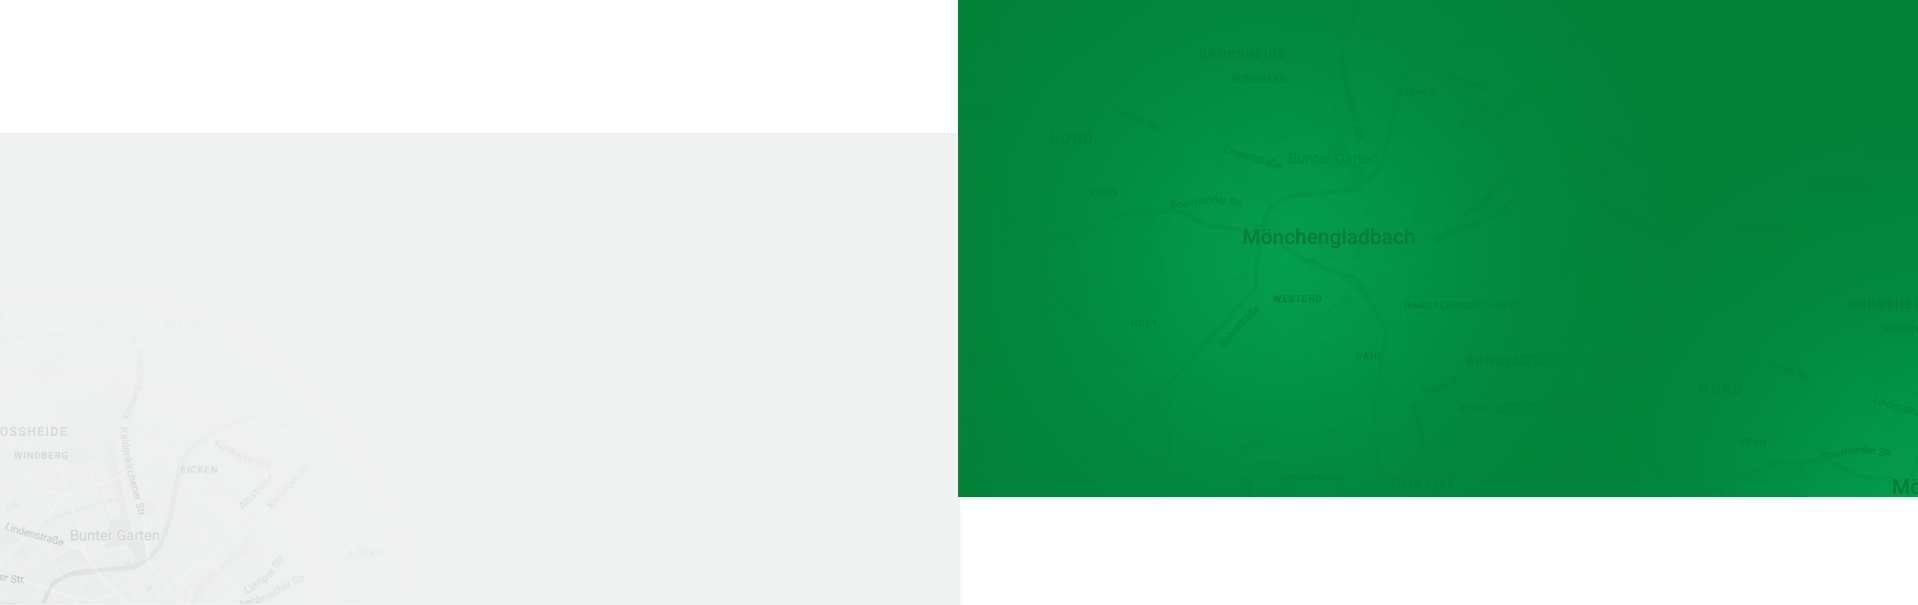
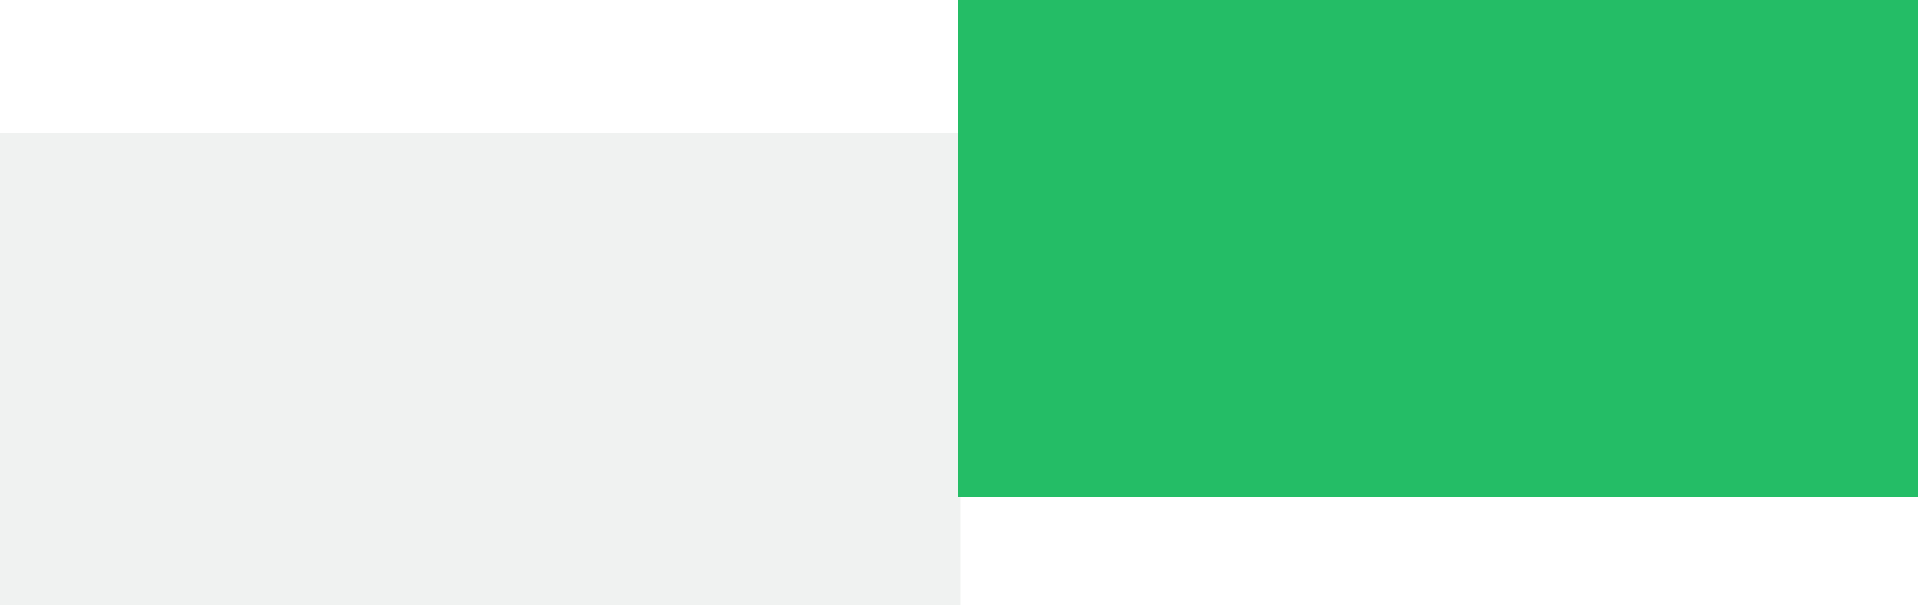
changed bgs

diff --git a/client/src/pages/Home/Home.css b/client/src/pages/Home/Home.css
@@ -311,7 +311,7 @@
   justify-content: center;
   gap: 2rem;
   color: #1a1b1a;
-  
+
   font-size: 26px;
   font-style: normal;
   font-weight: 700;
@@ -356,7 +356,7 @@
   justify-content: center;
   gap: 1rem;
   color: #fff;
-  
+
   font-size: 20px;
   font-style: normal;
   font-weight: 700;
@@ -369,10 +369,10 @@
 
 ._cards_container {
   /* height: 100%; */
-  /* background-image: url(../../assets/Mask_group2.png); */
-  /* background-size: cover;
+  background-image: url(../../assets/Mask_group2.png);
+  background-size: cover;
   background-position: top;
-  background-repeat: no-repeat; */
+  background-repeat: no-repeat;
   background-color: #fff;
   position: relative;
   display: flex;
@@ -384,6 +384,7 @@
     font-size: 35px;
     font-weight: 700;
     margin-top: 59px;
+    color: #fff;
   }
 }
 
@@ -562,7 +563,7 @@
 .guy_box p,
 .girl_box p {
   color: #252f44;
-  
+
   font-size: clamp(10px, 1vw, 13px);
   font-style: normal;
   font-weight: 700;
@@ -614,7 +615,7 @@
 
 .search_title h1 {
   color: #fff;
-  
+
 
   text-wrap: nowrap;
   text-overflow: ellipsis;
@@ -644,7 +645,7 @@
 
 .search_title>h1>span {
   color: #dec25f;
-  
+
   /* font-size: clamp(1.5rem, 4vw, 5.625rem); */
   font-style: normal;
   font-weight: 700;
@@ -659,7 +660,7 @@
 
 .search_description p {
   color: rgba(255, 255, 255, 0.45);
-  
+
 
   @media (min-width: 1200px) {
     font-size: clamp(13px, 1vw, 2rem);
@@ -730,7 +731,7 @@
 
 ._box p {
   color: #252f44;
-  
+
   font-size: clamp(1rem, 0.9vw, 2rem);
   font-style: normal;
   font-weight: 700;
@@ -852,7 +853,7 @@
 ._testimonial_container p {
   color: #1a1b1a;
   text-align: center;
-  
+
 
   /* font-size: clamp(1.5rem, 4vw, 5.625rem); */
   @media (min-width: 1200px) {
@@ -1044,7 +1045,7 @@
 .join_title span {
   color: #1a1b1a;
   justify-content: center;
-  
+
   font-size: clamp(1.5rem, 4vw, 5.625rem);
   font-style: normal;
   font-weight: 700;
@@ -1058,7 +1059,7 @@
 .join_ctr h5 {
   color: #69776f;
   text-align: center;
-  
+
   font-size: 14px;
   font-style: normal;
   font-weight: 700;
@@ -1070,7 +1071,7 @@
 .join_ctr p {
   color: #a1a4a2;
   text-align: center;
-  
+
   font-size: 12px;
   font-style: italic;
   font-weight: 700;
@@ -1118,14 +1119,14 @@
   margin-top: 15px;
   color: #fff;
   text-align: center;
-  
+
   font-size: 30px;
   font-style: normal;
   font-weight: 700;
   line-height: 62.778px;
   /* 137.194% */
   text-transform: uppercase;
- 
+
   background-repeat: no-repeat;
   background-size: contain;
   background-position: center;
@@ -1135,7 +1136,7 @@
 ._contact_box button {
   color: #07b854;
   text-align: center;
-  
+
   font-size: 20px;
   font-style: normal;
   font-weight: 700;
@@ -1178,7 +1179,7 @@
 
 .contact_fields input::placeholder {
   color: #fff;
-  
+
   font-size: 16px;
   font-style: normal;
   font-weight: 700;
@@ -1201,7 +1202,7 @@
 
 .message_field textarea::placeholder {
   color: #fff;
-  
+
   font-size: 16px;
   font-style: normal;
   font-weight: 700;
